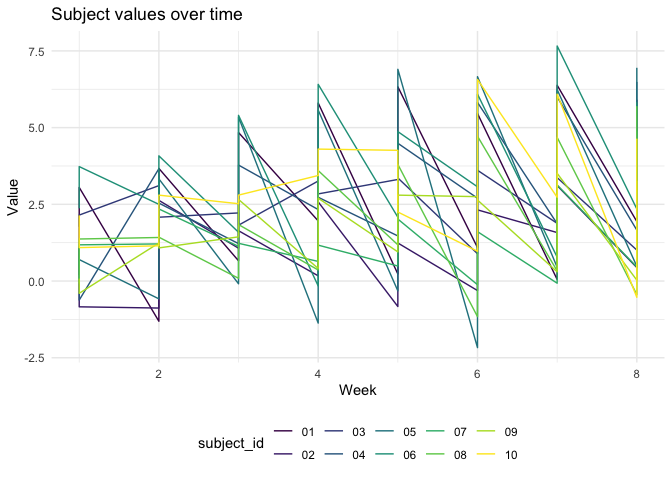
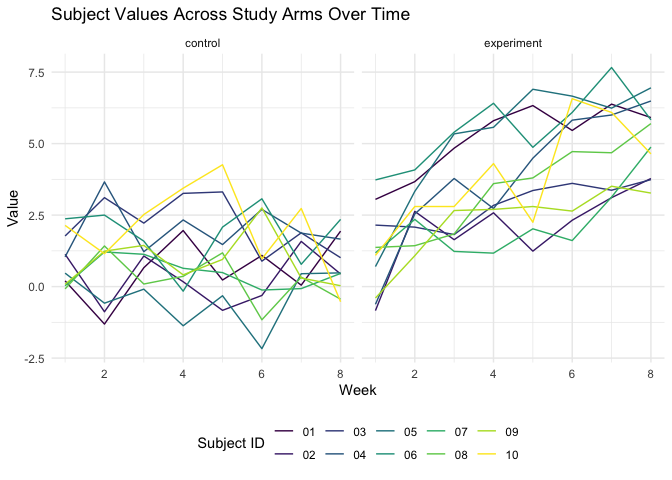
faceting spaghetti plot by study arm

diff --git a/p8105_hw5_smm2350.md b/p8105_hw5_smm2350.md
@@ -447,10 +447,12 @@ study_df %>%
   ggplot(aes(x = as.numeric(week), y = as.numeric(value), color = subject_id)) +
     geom_line() +
   labs(
-    title = "Subject values over time",
+    title = "Subject Values Across Study Arms Over Time",
     x = "Week",
-    y = "Value"
-  ) 
+    y = "Value",
+    color = "Subject ID"
+  ) +
+  facet_grid(cols = vars(study_arm))
 ```
 
 ![](p8105_hw5_smm2350_files/figure-gfm/unnamed-chunk-8-1.png)<!-- -->
